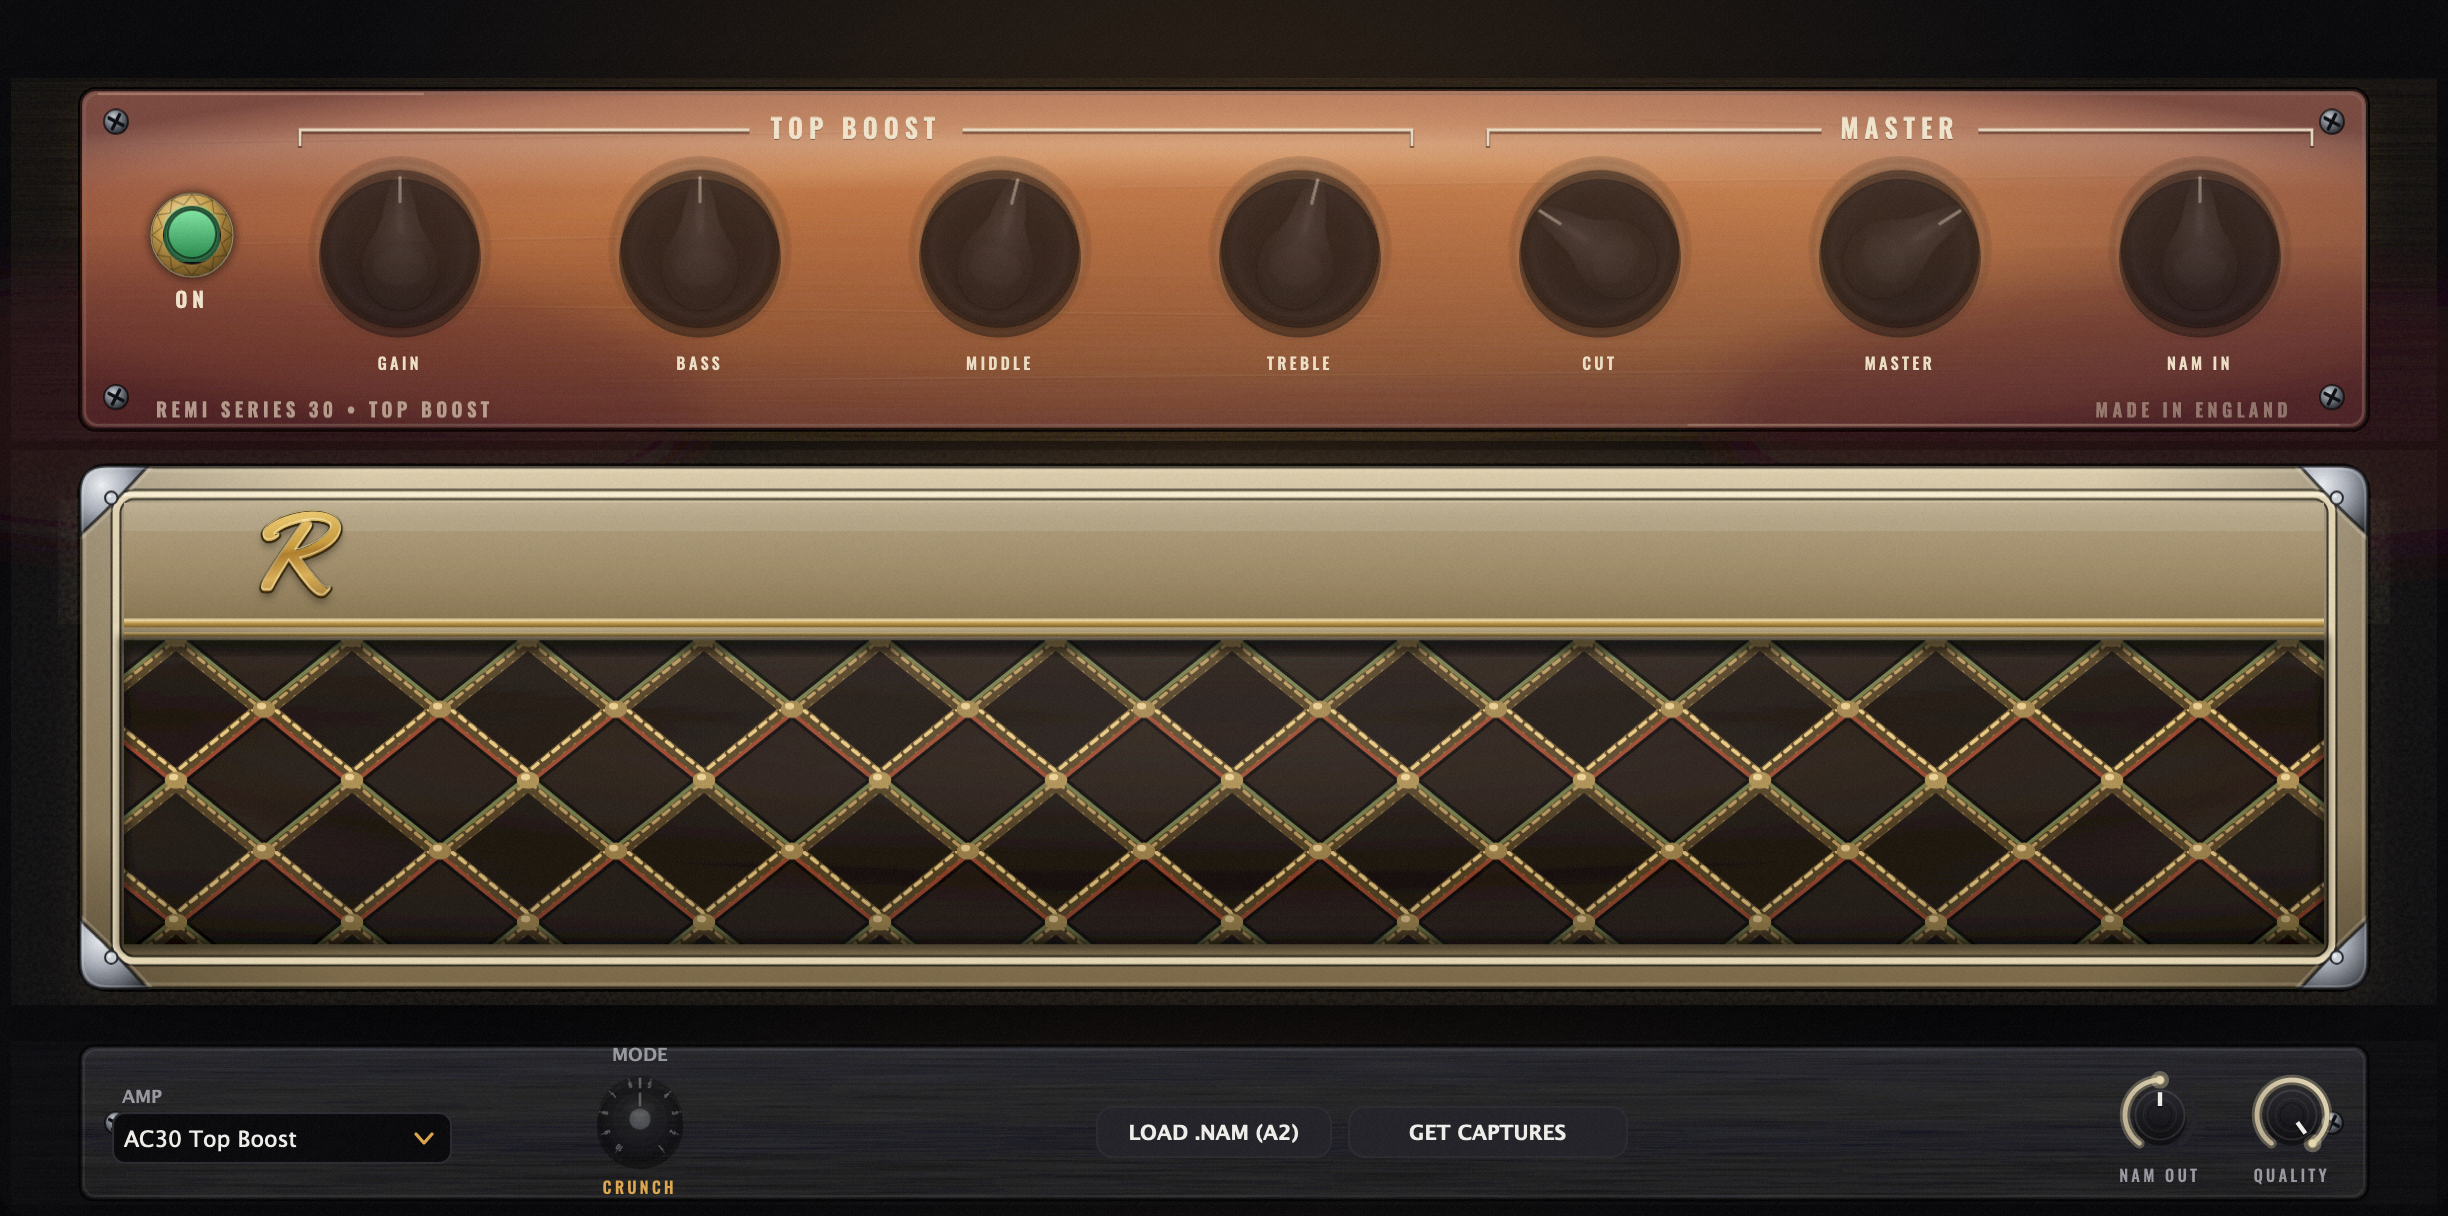
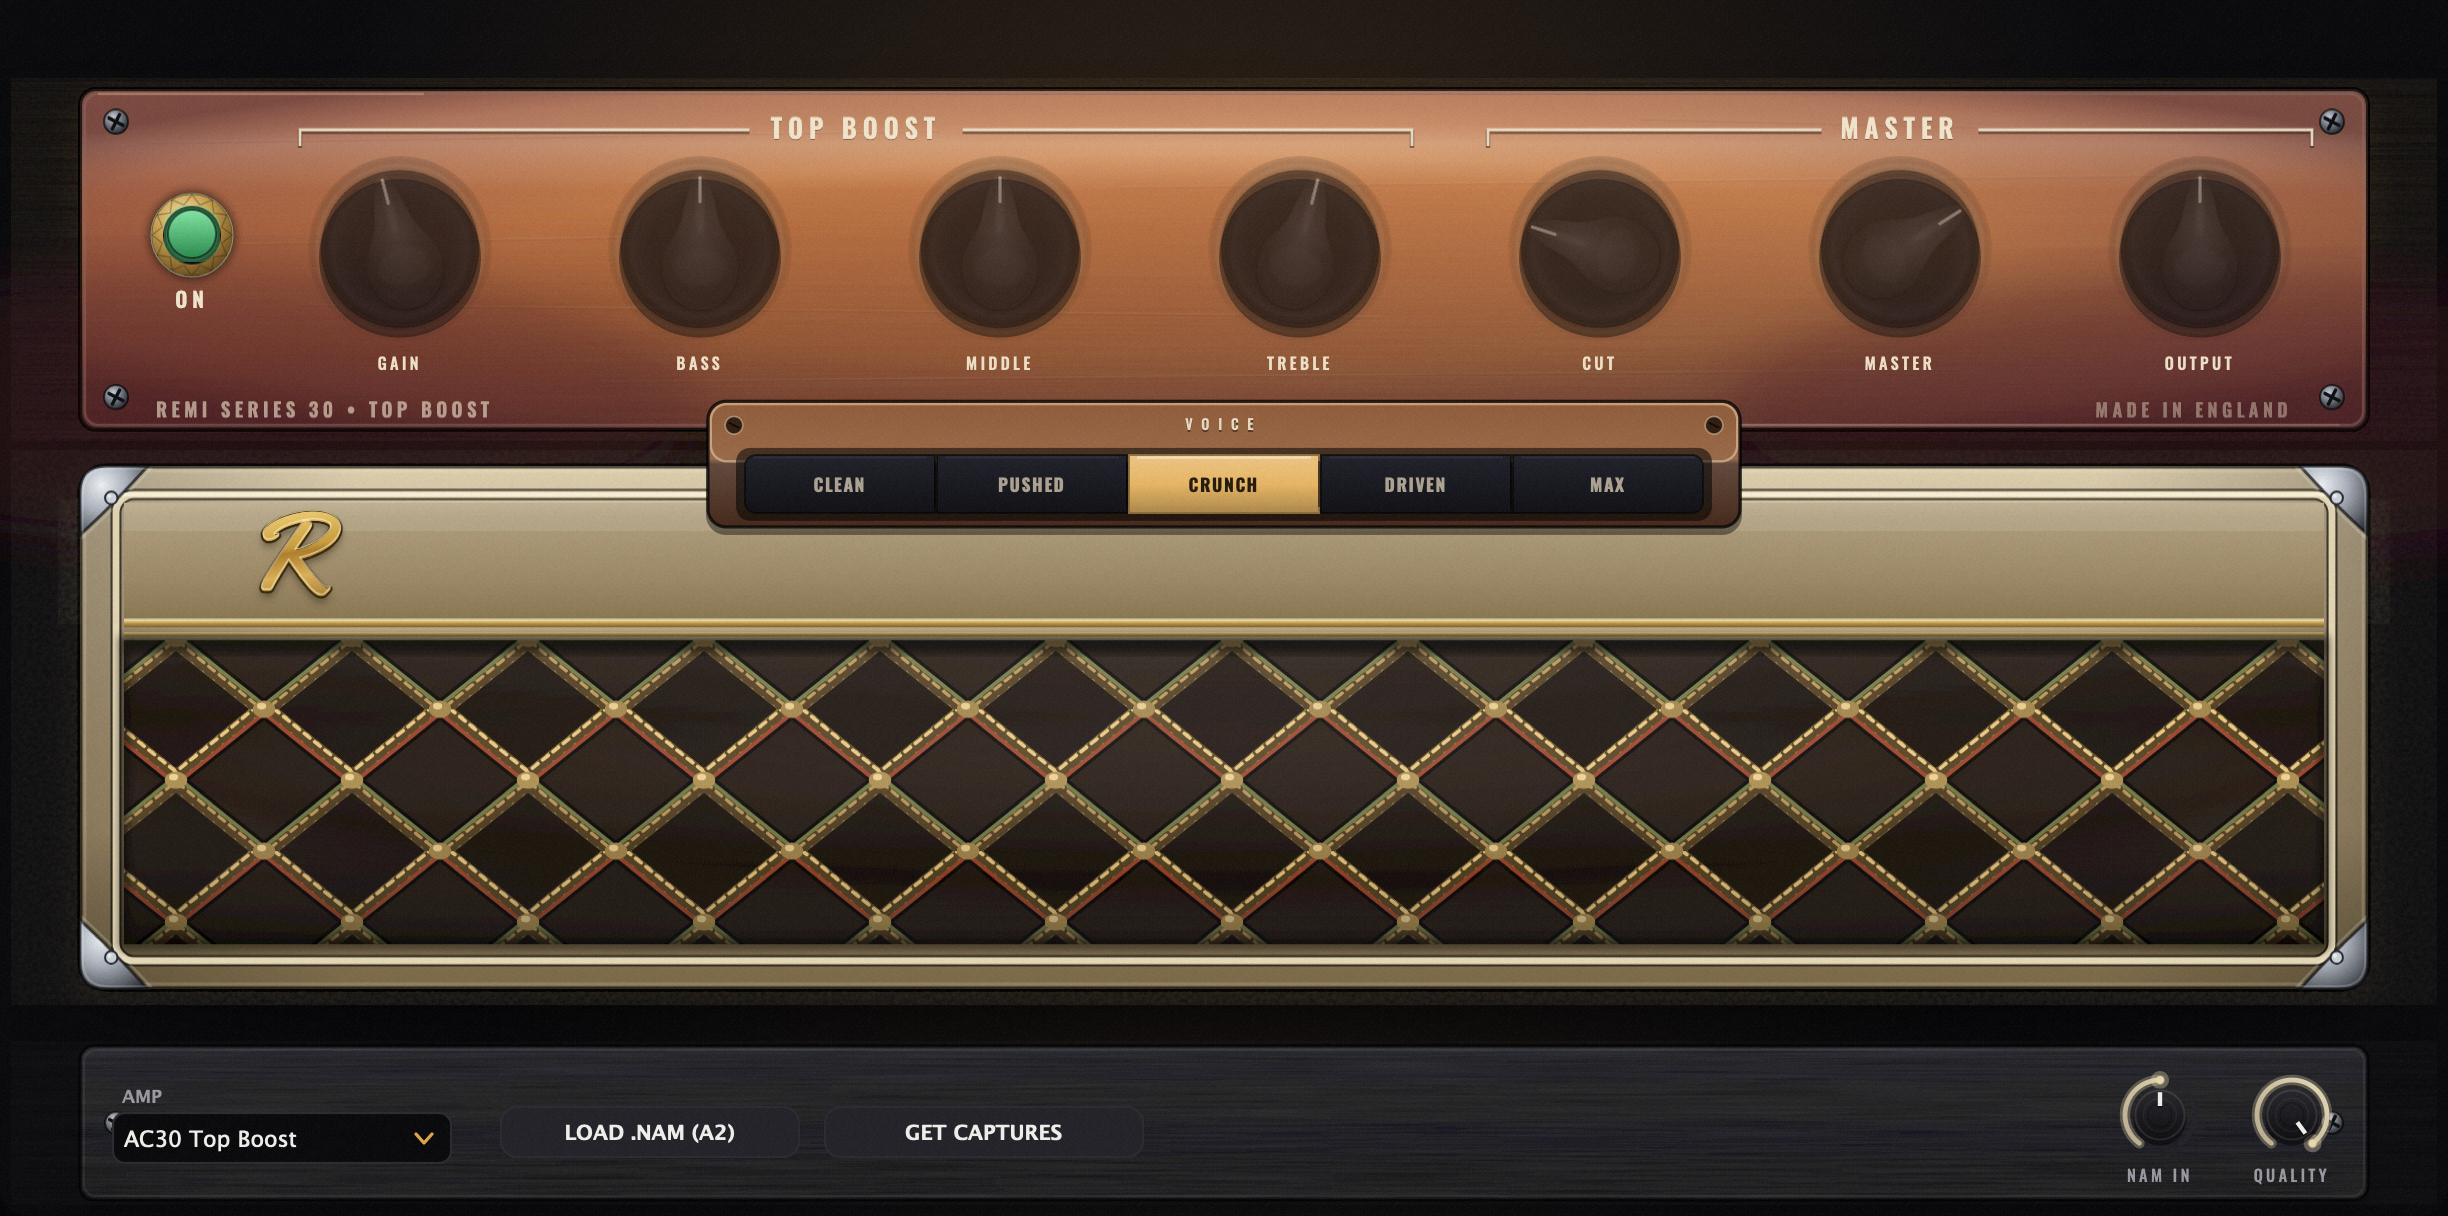
Site update: REMI DSP rebrand + 3-amp lineup + corrected specs
- Rebrand REMI Amps -> REMI DSP (logo wordline now centred "DSP").
- Amps showcase: 5 -> 3 heads (AC30 / Plexi / Modern High Gain), MODE -> VOICE;
  all plugin screenshots regenerated from the current UI (new on-face VOICE
  selector, tone3000/NAM footer).
- Fact fixes: 161 -> 47 presets, 25 -> 11 amp captures, 13 -> 4 reverb machines,
  4x -> 8x drive; drive described as TONE3000 NAM captures.
- Download asset names / links unchanged (live releases intact).

diff --git a/docs/index.html b/docs/index.html
@@ -3,8 +3,8 @@
 <head>
 <meta charset="UTF-8" />
 <meta name="viewport" content="width=device-width, initial-scale=1.0" />
-<title>REMI Amps — Over the Edge · Your entire guitar rig, free</title>
-<meta name="description" content="REMI Amps — Over the Edge. The free all-in-one guitar rig: 3 captured amplifiers, a full pedalboard, studio-grade FX and 48 presets. NAM A2 engine. Windows, macOS, VST3, AU & AAX." />
+<title>REMI DSP — Over the Edge · Your entire guitar rig, free</title>
+<meta name="description" content="REMI DSP — Over the Edge. The free all-in-one guitar rig: 3 captured amplifiers, a full pedalboard, studio-grade FX and 47 presets. NAM A2 engine. Windows, macOS, VST3 & AU." />
 <link rel="icon" type="image/png" href="assets/img/icon-256.png" />
 <link rel="preload" href="assets/fonts/Yellowtail.ttf" as="font" type="font/ttf" crossorigin />
 <link rel="preload" href="assets/fonts/OswaldBold.ttf" as="font" type="font/ttf" crossorigin />
@@ -27,12 +27,12 @@
 
 <!-- ░░ nav ░░ -->
 <header class="nav" id="nav">
-  <a href="#home" class="logo" aria-label="Remi de Klerk — home">
+  <a href="#home" class="logo" aria-label="Remi DSP — home">
     <span class="logo__mark">
       <span class="logo__script">Remi</span>
       <svg class="logo__swash" viewBox="0 0 120 14" aria-hidden="true"><path d="M2 9 C 30 13, 78 13, 118 2" /></svg>
     </span>
-    <span class="logo__sub">DE&nbsp;KLERK</span>
+    <span class="logo__sub">DSP</span>
   </a>
   <nav class="nav__links" aria-label="Primary">
     <a href="#amps">Amps</a>
@@ -52,7 +52,7 @@
   <div class="hero__glow" data-parallax="0.25"></div>
 
   <div class="hero__inner">
-    <p class="hero__eyebrow reveal">REMI&nbsp;AMPS · OVER&nbsp;THE&nbsp;EDGE</p>
+    <p class="hero__eyebrow reveal">REMI&nbsp;DSP · OVER&nbsp;THE&nbsp;EDGE</p>
 
     <h1 class="hero__title">
       <span class="reveal" style="--d:.05s">Your entire</span>
@@ -61,9 +61,9 @@
     </h1>
 
     <p class="hero__lede reveal" style="--d:.3s">
-      Three amplifiers captured from the real things — twelve voicings in all. A full
-      pedalboard. Studio-grade EQ &amp; compression. <strong>48 presets</strong> tuned by
-      ear. One plugin — powered by the <strong>NAM A2</strong> neural engine.
+      Three amplifiers captured from the real things. A full pedalboard. Studio-grade
+      EQ &amp; compression. <strong>47 presets</strong> tuned by ear. One plugin —
+      powered by <strong>TONE3000</strong> captures on the <strong>NAM A2</strong> engine.
     </p>
 
     <div class="hero__cta reveal" style="--d:.4s">
@@ -75,7 +75,7 @@
         <svg viewBox="0 0 24 24" class="btn__os"><path d="M16.4 12.6c0-2.5 2-3.7 2.1-3.8-1.1-1.7-2.9-1.9-3.5-1.9-1.5-.2-2.9.9-3.7.9s-1.9-.9-3.2-.8c-1.6 0-3.2 1-4 2.4-1.7 3-.4 7.4 1.2 9.8.8 1.2 1.8 2.5 3 2.4 1.2 0 1.7-.8 3.1-.8s1.9.8 3.2.8 2.1-1.2 2.9-2.3c.9-1.3 1.3-2.6 1.3-2.7-.1 0-2.5-1-2.5-3.7zM14.3 5.2c.7-.8 1.1-2 1-3.2-1 0-2.1.7-2.8 1.5-.6.7-1.2 1.9-1 3 1.1.1 2.1-.6 2.8-1.3z"/></svg>
         <span>macOS</span>
       </a>
-      <a href="#download" class="hero__plugins" data-magnetic>VST3 · AU · AAX · Standalone →</a>
+      <a href="#download" class="hero__plugins" data-magnetic>VST3 · AU · Standalone →</a>
     </div>
 
     <p class="hero__free-note reveal" style="--d:.5s">100% free · no account · no nags</p>
@@ -84,7 +84,7 @@
   <!-- floating app window -->
   <div class="hero__stage" data-tilt>
     <div class="hero__shot" data-parallax="-0.12">
-      <img src="assets/img/amp-ac30.png" alt="The REMI Amps plugin window showing the AC30 Top Boost amplifier" />
+      <img src="assets/img/amp-hero.png" alt="The REMI DSP plugin window showing the AC30 Top Boost amplifier" />
       <div class="hero__shot-glare"></div>
     </div>
     <div class="hero__orb hero__orb--amber" data-parallax="0.4"></div>
@@ -101,24 +101,22 @@
   <div class="marquee__track">
     <span>AC30 Top Boost</span><i>✦</i>
     <span>Plexi Super Lead</span><i>✦</i>
-    <span>Modern High Gain</span><i>✦</i>
-    <span>JTM45 · Dragon</span><i>✦</i>
-    <span>Bogner · Recto · 5150</span><i>✦</i>
-    <span>Dual-Engine Delay</span><i>✦</i>
-    <span>Reverb</span><i>✦</i>
+    <span>EVH 5150</span><i>✦</i>
+    <span>Mesa Recto</span><i>✦</i>
+    <span>SDD-3000 Delay</span><i>✦</i>
     <span>CE-2 Chorus</span><i>✦</i>
+    <span>Spring &amp; Hall Reverb</span><i>✦</i>
     <span>SSL Console EQ</span><i>✦</i>
     <span>1176 FET Comp</span><i>✦</i>
   </div>
   <div class="marquee__track" aria-hidden="true">
     <span>AC30 Top Boost</span><i>✦</i>
     <span>Plexi Super Lead</span><i>✦</i>
-    <span>Modern High Gain</span><i>✦</i>
-    <span>JTM45 · Dragon</span><i>✦</i>
-    <span>Bogner · Recto · 5150</span><i>✦</i>
-    <span>Dual-Engine Delay</span><i>✦</i>
-    <span>Reverb</span><i>✦</i>
+    <span>EVH 5150</span><i>✦</i>
+    <span>Mesa Recto</span><i>✦</i>
+    <span>SDD-3000 Delay</span><i>✦</i>
     <span>CE-2 Chorus</span><i>✦</i>
+    <span>Spring &amp; Hall Reverb</span><i>✦</i>
     <span>SSL Console EQ</span><i>✦</i>
     <span>1176 FET Comp</span><i>✦</i>
   </div>
@@ -133,8 +131,8 @@
   </p>
   <p class="statement__sub reveal">
     Every amp in REMI is a neural capture of a real, mic'd-up rig — the chime, the sag,
-    the way it breaks up. Three amplifiers, twelve hand-picked voicings, all running
-    through the <strong>NAM A2</strong> engine.
+    the way it breaks up. Three amplifiers, each with its own voices, all running on
+    <strong>TONE3000</strong> captures through the <strong>NAM A2</strong> engine.
   </p>
 </section>
 
@@ -143,11 +141,11 @@
   <div class="amps__sticky">
     <div class="amps__copy">
       <p class="kicker reveal">The amplifiers</p>
-      <h2 class="reveal" style="--d:.08s">Three amps.<br>One window.</h2>
+      <h2 class="reveal" style="--d:.08s">Three legends.<br>One window.</h2>
       <p class="reveal" style="--d:.16s">
         Switch the head and the whole front panel transforms — tolex, grille, wordmark and
-        all. The <em>AC30</em> sweeps clean to crunch; the <em>Plexi</em> and the
-        <em>Modern High Gain</em> stack swap a whole captured head per voicing.
+        all. Then pick a <em>VOICE</em> right on the amp face, from sparkling clean to full
+        meltdown.
       </p>
       <ul class="amps__modes reveal" style="--d:.24s">
         <li data-mode>AC30 Top Boost</li>
@@ -158,13 +156,13 @@
 
     <div class="amps__visual" data-tilt>
       <div class="amps__frame">
-        <img class="amps__face is-active" src="assets/img/amp-ac30.png" alt="AC30 Top Boost amp panel" />
-        <img class="amps__face" src="assets/img/amp-plexi.png" alt="Plexi Super Lead amp panel" loading="lazy" />
-        <img class="amps__face" src="assets/img/amp-heavy.png" alt="Modern High Gain amp panel" loading="lazy" />
+        <img class="amps__face is-active" src="assets/img/amp-ac30.png" alt="AC30 Top Boost amp panel with the VOICE selector" />
+        <img class="amps__face" src="assets/img/amp-plexi.png" alt="Plexi Super Lead amp panel with the VOICE selector" loading="lazy" />
+        <img class="amps__face" src="assets/img/amp-heavy.png" alt="Modern High Gain amp panel with the VOICE selector" loading="lazy" />
       </div>
-      <div class="amps__badge amps__badge--1">A2 capture</div>
-      <div class="amps__badge amps__badge--2">Full-rig, cab baked in</div>
-      <div class="amps__badge amps__badge--3">7-knob tone stack</div>
+      <div class="amps__badge amps__badge--1">TONE3000 capture</div>
+      <div class="amps__badge amps__badge--2">7-knob tone stack</div>
+      <div class="amps__badge amps__badge--3">On-face VOICE select</div>
     </div>
   </div>
 </section>
@@ -180,22 +178,20 @@
   <div class="fx__pin">
     <div class="fx__track">
       <article class="fx__card" style="--tint:#d2a43a">
-        <div class="fx__img"><img src="assets/img/pedal-drive.png" alt="Drive / Fuzz pedal" loading="lazy" /></div>
-        <div class="fx__meta"><span class="fx__no">01</span><h3>Drive / Fuzz</h3><p>Five real captured pedals — SD-1, Tube Screamer, FA-1, Klon and Fuzz Face — each a NAM A2 snapshot, with an analog-circuit fallback.</p></div>
+        <div class="fx__img"><img src="assets/img/pedal.png" alt="Overdrive pedal" loading="lazy" /></div>
+        <div class="fx__meta"><span class="fx__no">01</span><h3>Overdrive / Fuzz</h3><p>Five renowned drives — SD-1, TS-9, FA-1, Klon and Fuzz — each a TONE3000 NAM capture of the real pedal, with an analog circuit model as fallback.</p></div>
       </article>
       <article class="fx__card" style="--tint:#6b4d92">
-        <div class="fx__img"><img src="assets/img/pedal-chorus.png" alt="Chorus pedal" loading="lazy" /></div>
-        <div class="fx__meta"><span class="fx__no">02</span><h3>Chorus</h3><p>One faithful Boss CE-2 bucket-brigade chorus, modelled from the circuit up — Rate, Depth, Tone, Mix.</p></div>
+        <div class="fx__img"><img src="assets/img/chorus.png" alt="Chorus pedal" loading="lazy" /></div>
+        <div class="fx__meta"><span class="fx__no">02</span><h3>Chorus / Vibrato</h3><p>Multi-voice analog stereo widening with true BBD voicing.</p></div>
       </article>
       <article class="fx__card" style="--tint:#3f95a8">
-        <div class="fx__img"><img src="assets/img/pedal-delay.png" alt="Dual-engine delay" loading="lazy" /></div>
-        <div class="fx__meta"><span class="fx__no">03</span><h3>Dual-Engine Delay</h3><p>Two delay engines, series or parallel. Four voicings — Digital, Studio, Analog, Tape — with in-loop saturation, diffusion and a blooming 3/16 swell.</p></div>
+        <div class="fx__img"><img src="assets/img/delay.png" alt="SDD-3000 delay" loading="lazy" /></div>
+        <div class="fx__meta"><span class="fx__no">03</span><h3>SDD-3000 Delay</h3><p>The rack delay that defined an era. Tempo-synced, modulated, pristine.</p></div>
       </article>
       <article class="fx__card" style="--tint:#3f7fb5">
-        <!-- Reverb: the engine is internally "Vast Sky" (see src/dsp/VastSkyReverb), but the
-             site/UI label is just "Reverb" per request. Keep this card's name plain "Reverb". -->
-        <div class="fx__img"><img src="assets/img/pedal-reverb.png" alt="Reverb" loading="lazy" /></div>
-        <div class="fx__meta"><span class="fx__no">04</span><h3>Reverb</h3><p>Four best-in-class algorithms — Room, Hall, Plate and Spring — plus octave shimmer and decays out to 60 seconds.</p></div>
+        <div class="fx__img"><img src="assets/img/reverb.png" alt="Reverb" loading="lazy" /></div>
+        <div class="fx__meta"><span class="fx__no">04</span><h3>Reverb</h3><p>Four distinct algorithms — room, hall, plate and spring — plus a shimmer octave bloom.</p></div>
       </article>
     </div>
   </div>
@@ -204,7 +200,7 @@
 <!-- ░░ STUDIO ░░ -->
 <section class="studio" id="studio">
   <div class="studio__media" data-tilt>
-    <img src="assets/img/studio-strip.png" alt="REMI Amps studio strip — SSL-style EQ and 1176 compressor" data-parallax="-0.06" />
+    <img src="assets/img/studio.png" alt="REMI DSP studio strip — SSL-style EQ and 1176 compressor" data-parallax="-0.06" />
   </div>
   <div class="studio__copy">
     <p class="kicker reveal">The studio strip</p>
@@ -223,9 +219,9 @@
 <!-- ░░ SPECS / STATS ░░ -->
 <section class="specs" id="specs">
   <div class="specs__stats">
-    <div class="stat reveal"><span class="stat__num" data-count="48">0</span><span class="stat__label">Factory presets</span></div>
-    <div class="stat reveal" style="--d:.1s"><span class="stat__num" data-count="3">0</span><span class="stat__label">Captured amps</span></div>
-    <div class="stat reveal" style="--d:.2s"><span class="stat__num" data-count="17">0</span><span class="stat__label">Neural captures</span></div>
+    <div class="stat reveal"><span class="stat__num" data-count="47">0</span><span class="stat__label">Factory presets</span></div>
+    <div class="stat reveal" style="--d:.1s"><span class="stat__num" data-count="11">0</span><span class="stat__label">Amp captures</span></div>
+    <div class="stat reveal" style="--d:.2s"><span class="stat__num" data-count="4">0</span><span class="stat__label">Reverb machines</span></div>
     <div class="stat reveal" style="--d:.3s"><span class="stat__num" data-count="0" data-suffix="$" data-zero="0">0</span><span class="stat__label">Price, forever</span></div>
   </div>
 
@@ -235,7 +231,7 @@
     <div class="feature reveal" style="--d:.16s"><h3>Presets as files</h3><p>Every preset is a JSON file. Drop one in a folder and it appears in the menu. No rebuild.</p></div>
     <div class="feature reveal"><h3>Auto cab match</h3><p>Full-rig captures bypass the cab automatically; amp-only captures load the right IR.</p></div>
     <div class="feature reveal" style="--d:.08s"><h3>Real I/O control</h3><p>Dedicated input &amp; output gain, a true noise gate with hold, and one-click audio settings.</p></div>
-    <div class="feature reveal" style="--d:.16s"><h3>Every format</h3><p>Standalone app, VST3, Audio Unit and AAX for Pro Tools — Windows and macOS, 64-bit.</p></div>
+    <div class="feature reveal" style="--d:.16s"><h3>Every format</h3><p>Standalone app, VST3 and Audio Unit — for Windows and macOS, 64-bit.</p></div>
   </div>
 </section>
 
@@ -266,7 +262,7 @@
       <h3>macOS</h3>
       <p class="dcard__req">macOS 11+ · Intel &amp; Apple&nbsp;Silicon</p>
       <a class="btn btn--amber dcard__btn" href="https://github.com/frankAwesome/remi-amps-downloads/releases/latest/download/REMI-Amps-macOS.pkg" data-magnetic><span>Download installer</span></a>
-      <p class="dcard__note">One installer · App <strong>+</strong> AU <strong>+</strong> VST3 <strong>+</strong> AAX</p>
+      <p class="dcard__note">One installer · App <strong>+</strong> Audio Unit <strong>+</strong> VST3</p>
     </article>
 
     <article class="dcard dcard--box reveal" style="--d:.2s" data-tilt>
@@ -276,10 +272,10 @@
       <h3>In the box</h3>
       <p class="dcard__req">One free download · no account</p>
       <ul class="dcard__list">
-        <li>Standalone, VST3, AU &amp; AAX</li>
-        <li>3 amps · 17 neural captures</li>
+        <li>Standalone, VST3 &amp; Audio Unit</li>
+        <li>3 amps · 11 amp voices</li>
         <li>Full pedalboard &amp; studio strip</li>
-        <li>48 presets, ready to play</li>
+        <li>47 presets, ready to play</li>
       </ul>
     </article>
   </div>
@@ -295,7 +291,7 @@
         <span class="logo__script">Remi</span>
         <svg class="logo__swash" viewBox="0 0 120 14" aria-hidden="true"><path d="M2 9 C 30 13, 78 13, 118 2" /></svg>
       </span>
-      <span class="logo__sub">DE&nbsp;KLERK</span>
+      <span class="logo__sub">DSP</span>
     </span>
     <p class="footer__tag">Over the Edge — the all-in-one guitar suite.</p>
   </div>
@@ -304,7 +300,7 @@
     <div><h4>Explore</h4><a href="#amps">Amps</a><a href="#fx">Pedalboard</a><a href="#studio">Studio</a></div>
     <div><h4>Tech</h4><a href="#specs">NAM A2</a><a href="#specs">Formats</a><a href="#specs">Specs</a></div>
   </div>
-  <p class="footer__legal">© <span id="year">2026</span> Francois de Klerk · REMI Amps. Built for players. Free forever.</p>
+  <p class="footer__legal">© <span id="year">2026</span> Francois de Klerk · REMI DSP. Built for players. Free forever.</p>
 </footer>
 
 <script src="js/main.js"></script>

diff --git a/docs/css/style.css b/docs/css/style.css
@@ -1,5 +1,5 @@
 /* ══════════════════════════════════════════════════════════════
-   REMI Amps — Over the Edge · single-page site
+   REMI DSP — Over the Edge · single-page site
    Fonts are the EXACT app fonts: Yellowtail (logo) + Oswald (UI)
    ══════════════════════════════════════════════════════════════ */
 
@@ -118,7 +118,8 @@ em{font-style:normal;color:var(--amber-hi)}
 .logo__swash path{fill:none;stroke:var(--amber);stroke-width:3.4;stroke-linecap:round;
   filter:drop-shadow(0 0 6px rgba(231,169,58,.6))}
 .logo__sub{font-family:var(--font-ui);font-weight:600;font-size:.62rem;letter-spacing:.52em;
-  color:#cbcfd6;margin-top:.55em;padding-left:.18em;text-shadow:0 1px 2px #000}
+  color:#cbcfd6;margin-top:.55em;width:100%;text-align:center;padding-left:.52em;
+  text-shadow:0 1px 2px #000}
 .logo--footer .logo__script{font-size:2.6rem}
 
 /* ════════ NAV ════════ */

diff --git a/docs/js/main.js b/docs/js/main.js
@@ -1,5 +1,5 @@
 /* ══════════════════════════════════════════════════════════════
-   REMI Amps — site interactions
+   REMI DSP — site interactions
    Vanilla JS. One rAF scroll loop drives all scroll-linked motion.
    ══════════════════════════════════════════════════════════════ */
 (() => {